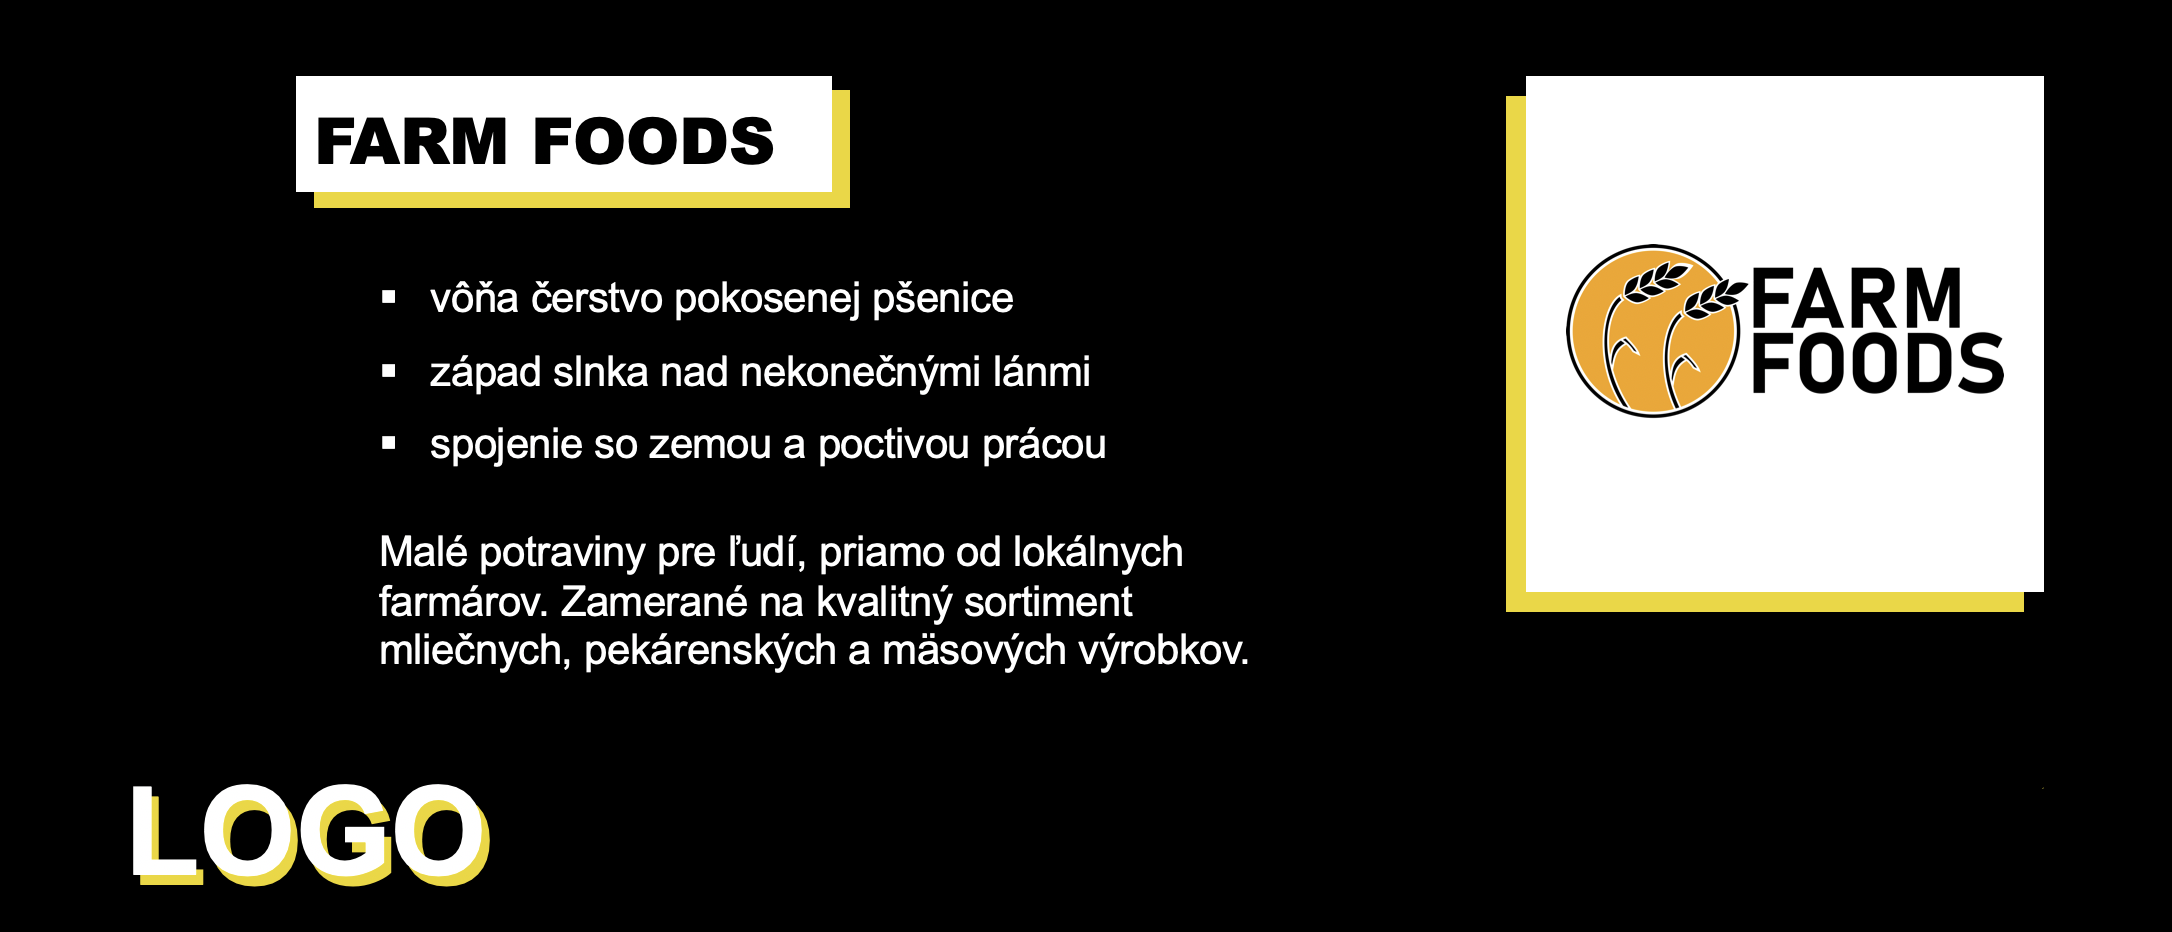
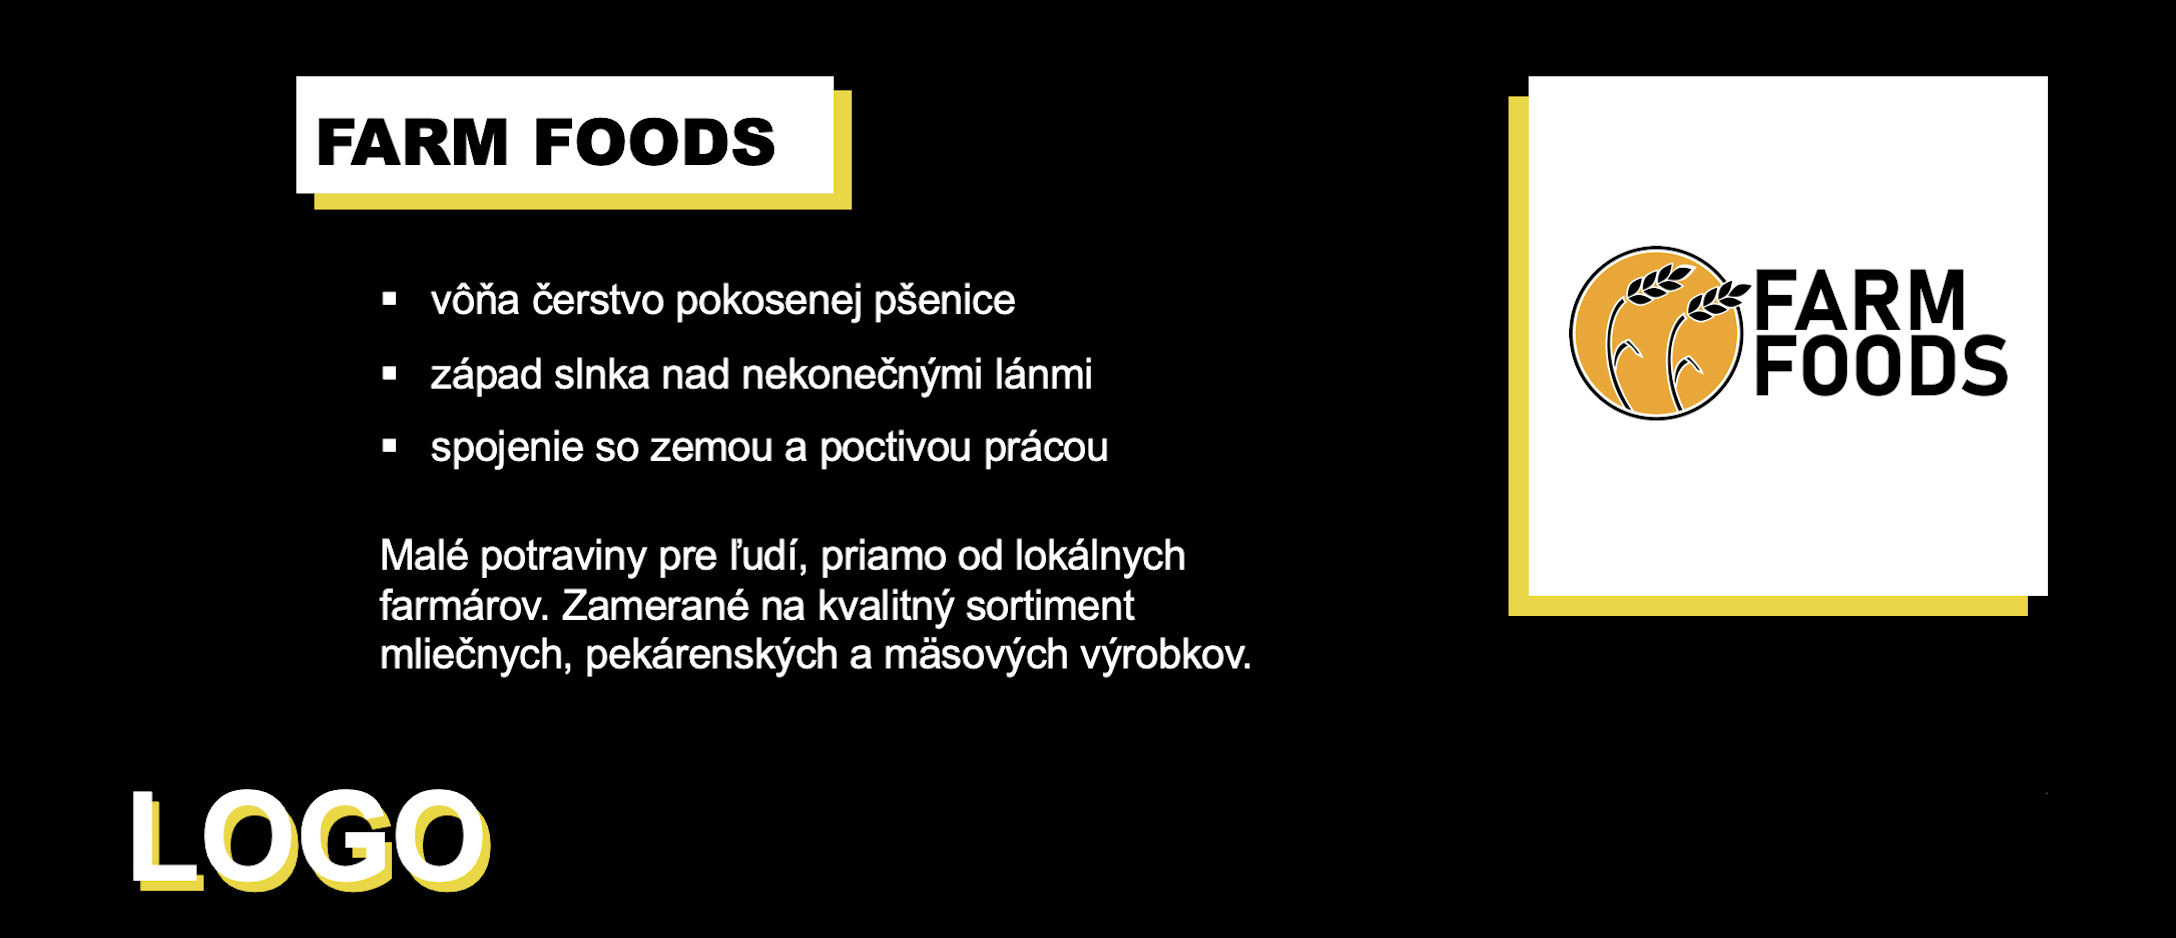
png gall md sizes

diff --git a/app/components/portfolio/Gallery4.tsx b/app/components/portfolio/Gallery4.tsx
@@ -1,5 +1,5 @@
 'use client';
-import React, { useState, useEffect } from 'react';
+import React, { useEffect } from 'react';
 import Header from './Header';
 import Image from 'next/image';
 
@@ -19,7 +19,7 @@ const Gallery4: React.FC<GalleryProps> = ({ slide, setSlide }) => {
   return (
     <>
       <div className="hidden h-screen flex-col bg-[#060085] lg:flex">
-        <div className="mt-[22.5%] pb-[4%] 2xl:mt-[17.5%]">
+        <div className="bluemt2 pb-[4%] 2xl:mt-[22.5%]">
           <Header />
         </div>
         <div>
@@ -28,7 +28,7 @@ const Gallery4: React.FC<GalleryProps> = ({ slide, setSlide }) => {
             height={1000}
             width={1000}
             alt="michal dovala"
-            src={`/gallery00${slide}.webp`}
+            src={`/gall00${slide}.png`}
             className="w-screen"
           />
         </div>
@@ -49,7 +49,7 @@ const Gallery4: React.FC<GalleryProps> = ({ slide, setSlide }) => {
         )}
       </div>
       <div className="relative">
-        <div className="absolute -top-[60px] left-[12.5%] flex lg:left-[72.5%] lg:top-60 2xl:top-72">
+        <div className="arrows2 absolute left-[12.5%] flex lg:left-[72.5%] lg:top-0">
           {slide > 8 && (
             <Image
               width={50}
@@ -61,7 +61,7 @@ const Gallery4: React.FC<GalleryProps> = ({ slide, setSlide }) => {
             />
           )}
         </div>
-        <div className="absolute -top-[60px] right-[12%] flex lg:right-[7.5%] lg:top-60 2xl:top-72">
+        <div className="arrows2 absolute right-[12%] flex lg:right-[7.5%] lg:top-0">
           {slide < 11 && (
             <Image
               width={50}

diff --git a/app/components/portfolio/Gallery3.tsx b/app/components/portfolio/Gallery3.tsx
@@ -1,5 +1,5 @@
 'use client';
-import React, { useState } from 'react';
+import React from 'react';
 import Header from './Header';
 import Image from 'next/image';
 
@@ -13,7 +13,7 @@ const Gallery3: React.FC<GalleryProps> = ({ slideNo, setSlideNo }) => {
   return (
     <>
       <div className="hidden h-screen flex-col bg-[#060085] lg:flex">
-        <div className="bluemt pb-[4%] 2xl:mt-[9%]">
+        <div className="bluemt pb-[4%] 2xl:mt-[12.5%]">
           <Header />
         </div>
         <div>
@@ -22,7 +22,6 @@ const Gallery3: React.FC<GalleryProps> = ({ slideNo, setSlideNo }) => {
               height={1000}
               width={1000}
               alt="michal dovala"
-              //src={`/gallery00${slideNo}.webp`}
               src={`/gall00${slideNo}.png`}
               className="w-screen"
             />
@@ -45,7 +44,7 @@ const Gallery3: React.FC<GalleryProps> = ({ slideNo, setSlideNo }) => {
         )}
       </div>
       <div className="relative">
-        <div className="absolute -top-[60px] left-[12.5%] flex lg:left-[72.5%] lg:top-24 2xl:top-40">
+        <div className="arrows absolute left-[12.5%] flex lg:left-[72.5%] lg:top-0">
           {slideNo > 3 && (
             <Image
               width={50}
@@ -57,7 +56,7 @@ const Gallery3: React.FC<GalleryProps> = ({ slideNo, setSlideNo }) => {
             />
           )}
         </div>
-        <div className="absolute -top-[60px] right-[12%] flex lg:right-[7.5%] lg:top-24 2xl:top-40">
+        <div className="arrows absolute right-[12%] flex lg:right-[7.5%] lg:top-0 ">
           {slideNo < 7 && (
             <Image
               width={50}

diff --git a/app/globals.css b/app/globals.css
@@ -116,19 +116,65 @@ button {
   height: 100vh;
 }
 
+.bluemt {
+  margin-top: 5.5%;
+}
+
+.bluemt2 {
+  margin-top: 8%;
+}
+
+.arrows {
+  margin-top: -2.5%;
+}
+
+.arrows2 {
+  margin-top: -1%;
+}
+
+@media screen and (min-width: 1920px) {
+  .arrows {
+    margin-top: 12%;
+  }
+
+  .arrows2 {
+    margin-top: 20%;
+  }
+}
+
+@media screen and (height: 624px) {
+  .bluemt {
+    margin-top: 12.5%;
+  }
+
+  .bluemt2 {
+    margin-top: 22.5%;
+  }
+
+  .bluemt3 {
+    margin-top: 30%;
+  }
+
+  .arrows {
+    margin-top: 12.5%;
+  }
+
+  .arrows2 {
+    margin-top: 21.5%;
+  }
+}
+
 @media screen and (max-width: 768px) {
   .realsluzby {
     width: 100vw;
     height: 225px;
   }
-}
 
-.bluemt {
-  margin-top: 3%;
-}
+  .arrows {
+    margin-top: -15%;
+  }
 
-@media screen and (width: 1370px) and (height: 624px) {
-  .bluemt {
-    margin-top: 11%;
+  .arrows2 {
+    margin-top: -16%;
   }
 }

diff --git a/app/portfolio/page.tsx b/app/portfolio/page.tsx
@@ -78,7 +78,7 @@ const Portfolio = () => {
       <Gallery3 slideNo={slideNo} setSlideNo={setSlideNo} />
       <Gallery4 slide={slide} setSlide={setSlide} />
 
-      <div className="relative mt-[30%] hidden h-[115vh] flex-col overflow-hidden bg-[#060085] lg:flex 2xl:mt-[27.5%]">
+      <div className="bluemt3 relative mt-[10%] hidden h-[115vh] flex-col overflow-hidden bg-[#060085] lg:flex 2xl:mt-[30%]">
         <Header />
 
         <div className="absolute left-[15%] top-[52.5%] hidden bg-[#060085] text-[22.5px] lg:inline 2xl:left-[20%] 2xl:top-[50%]">

diff --git a/app/components/portfolio/Gallery2.tsx b/app/components/portfolio/Gallery2.tsx
@@ -7,7 +7,7 @@ const Gallery2 = () => {
   return (
     <>
       <div className="relative hidden h-screen flex-col bg-[#060085] lg:flex">
-        <div className="pb-8 lg:pt-[2%] 2xl:pt-[3%]">
+        <div className="pb-16 lg:pt-[2%] 2xl:pt-[3%]">
           <Header />
         </div>
 
